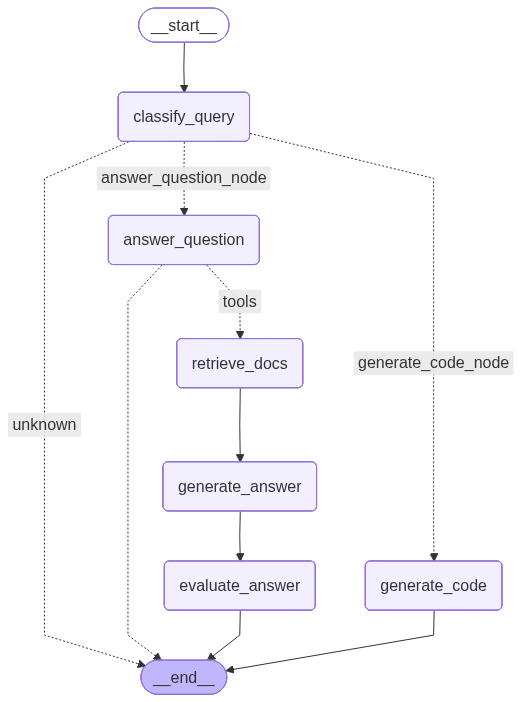
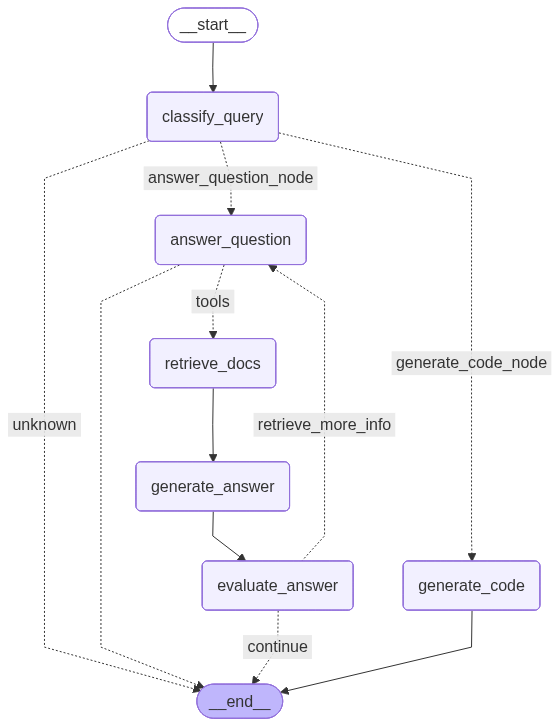
feat: add evaluation loop v1
"More info" works, other nodes are required

diff --git a/neuroml_ai/rag.py b/neuroml_ai/rag.py
@@ -98,6 +98,9 @@ class NML_RAG(object):
         self.text_vector_store = None
         self.image_vector_store = None
 
+        self.default_k = 2
+        self.k = self.default_k
+
         # we prefer markdown because the one page PDF that is available for the
         # documentation does not work too well with embeddings
         my_path = Path(__file__).parent
@@ -372,14 +375,28 @@ class NML_RAG(object):
         output = query_node_llm.invoke(prompt)
         self.logger.debug(f"{output =}")
 
+        # add the summary as a message also, to keep the message chain going
         messages = state.messages
         messages.append(AIMessage(content=output.summary))
-        return {"messages": messages}
+        return {"messages": messages, "text_response_eval": output}
 
     def _route_answer_evaluator_node(self, state: AgentState) -> str:
         """Route depending on evaluation of answer"""
-        # TODO: WIP
-        return "good"
+        # next_step: Literal["continue", "retrieve_more_info", "modify_query", "ask_user", "undefined"] = Field(default="undefined")
+        text_response_eval = state.text_response_eval.next_step
+
+        if text_response_eval == "continue":
+            self.logger.info(state.messages[-1].pretty_print())
+            self.k = self.default_k
+            return "continue"
+        elif text_response_eval == "retrieve_more_info":
+            self.k += 1
+            return "retrieve_more_info"
+        elif text_response_eval == "modify_query":
+            return "modify_query"
+        else:
+            return "undefined"
+
 
     def _route_query_node(self, state: AgentState) -> str:
         """Route the query depending on LLM's result"""
@@ -421,6 +438,16 @@ class NML_RAG(object):
             {
                 "tools": "retrieve_docs",
                 END: END,
+            },
+        )
+
+        self.workflow.add_conditional_edges(
+            "evaluate_answer",
+            self._route_answer_evaluator_node,
+            {
+                "continue": END,
+                "retrieve_more_info": "answer_question",
+                "unknown": END,
             },
         )
 
@@ -549,7 +576,7 @@ class NML_RAG(object):
             self.logger.debug(f"Length of split docs: {len(splits)}")
             self.index = self.text_vector_store.add_documents(documents=splits)
 
-    def _retrieve_docs(self, query: str, k:int = 2):
+    def _retrieve_docs(self, query: str):
         """Retrieve embeddings from documentation to answer a query
 
         :param query: user query
@@ -558,7 +585,7 @@ class NML_RAG(object):
         """
         assert self.text_vector_store
 
-        res = self.text_vector_store.similarity_search(query, k=k)
+        res = self.text_vector_store.similarity_search(query, k=self.k)
 
         serialized = "\n\n".join(
             (f"Source: {r.metadata}\nContent:{r.page_content}") for r in res
@@ -601,4 +628,4 @@ if __name__ == "__main__":
     )
     nml_ai.setup()
     # nml_ai.test_retrieval()
-    nml_ai.run_graph("What are the synapse models available in NeuroML?")
+    nml_ai.run_graph("Give me a summary of the NeuroML project's primary goals and also detail the exact steps required to install the core Python library")
